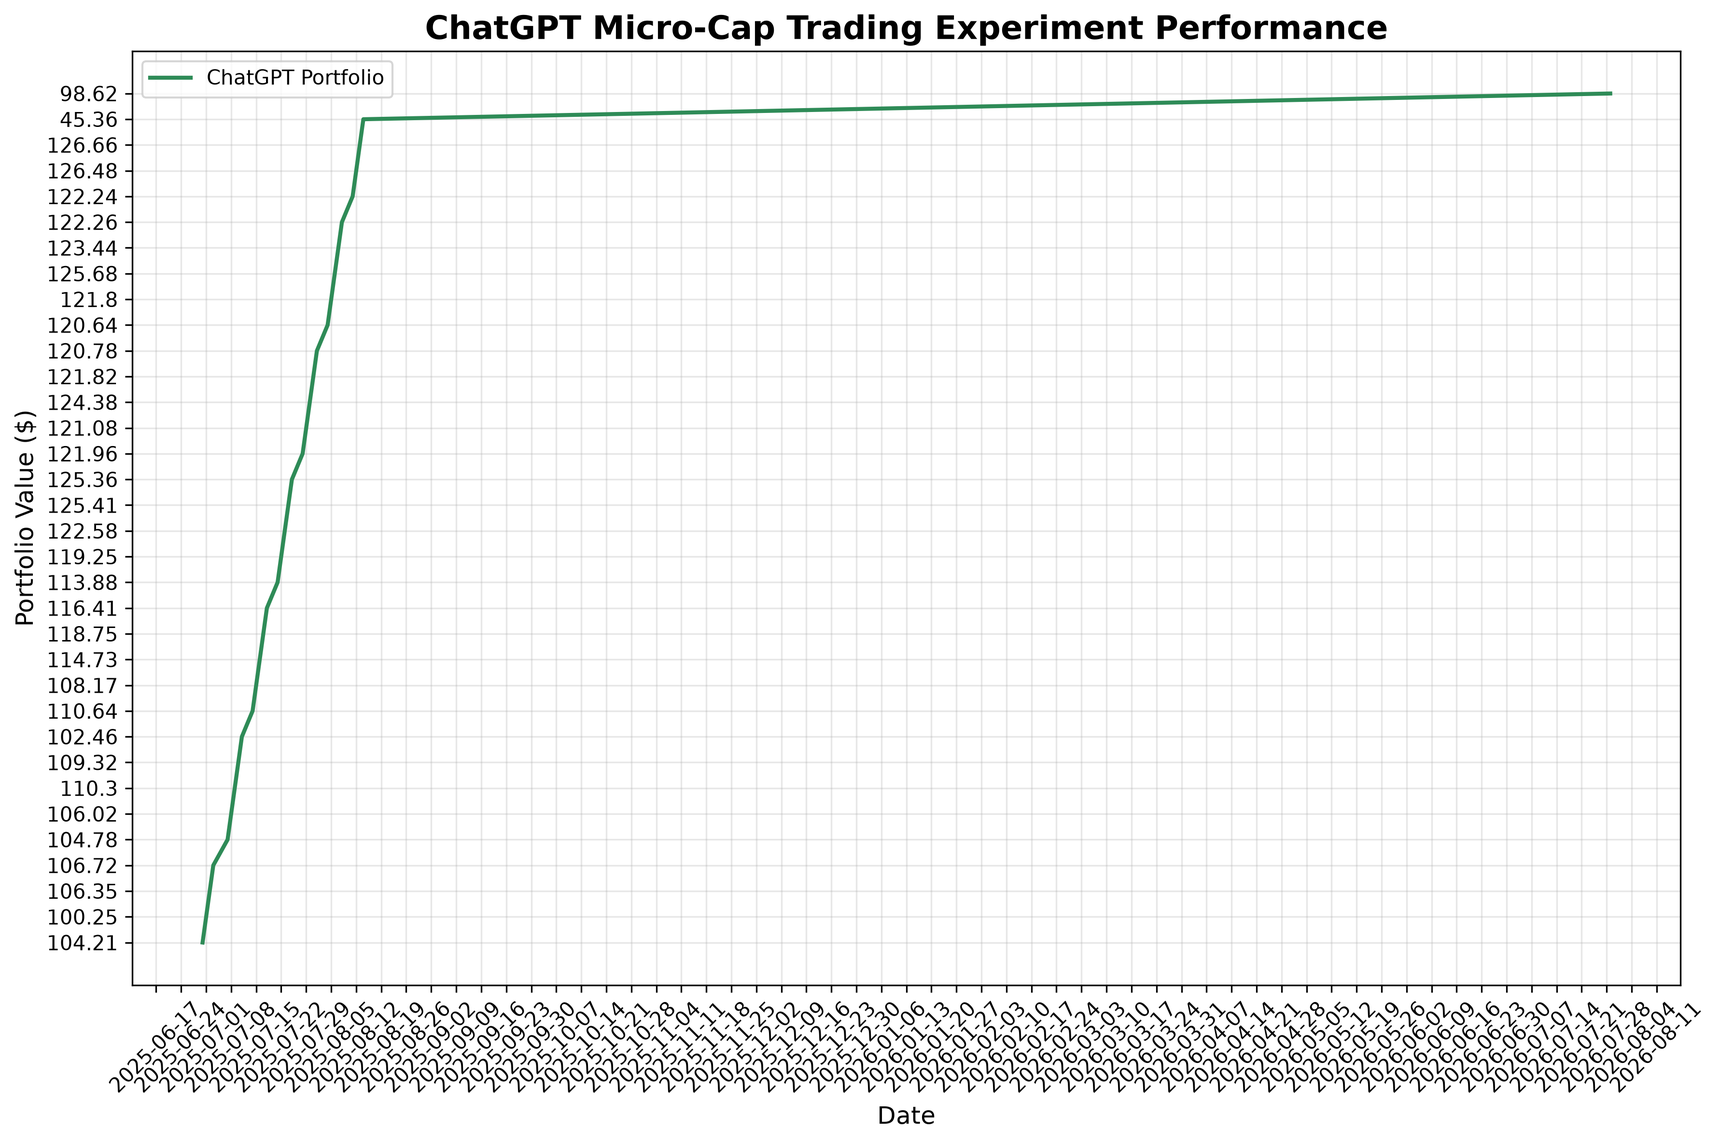
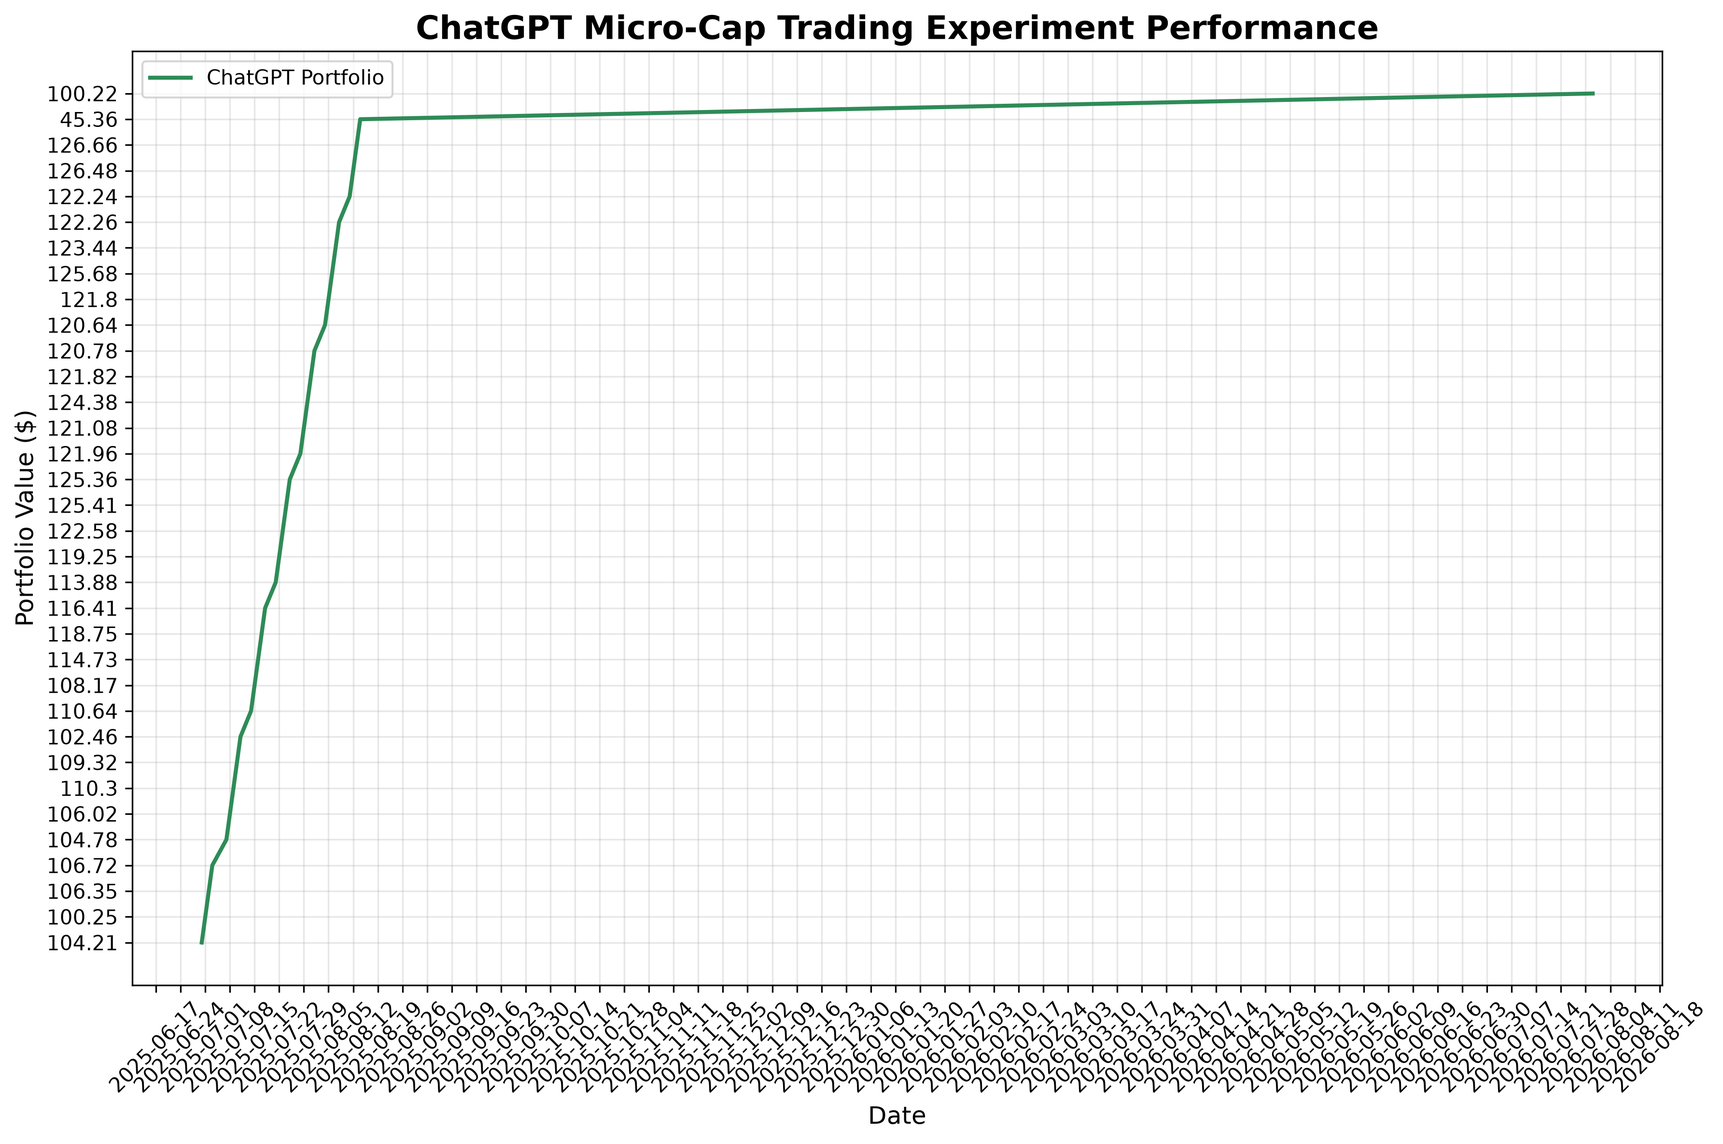
deploy: e15cad030d70fb3fbb51f9df6e22fa70c2f175c0

diff --git a/index.html b/index.html
@@ -105,7 +105,7 @@
                 <div class="stat-label">Total Trades</div>
             </div>
             <div class="stat-card">
-                <div class="stat-value" id="last-updated">2026-07-29</div>
+                <div class="stat-value" id="last-updated">2026-07-30</div>
                 <div class="stat-label">Last Updated</div>
             </div>
         </div>
@@ -160,8 +160,8 @@
     
     <script>
         // Portfolio data
-        const portfolioData = JSON.parse("[{&quot;Date&quot;: &quot;2025-08-11&quot;, &quot;Ticker&quot;: &quot;ABEO&quot;, &quot;Shares&quot;: 4.0, &quot;Buy Price&quot;: 5.77, &quot;Cost Basis&quot;: 23.08, &quot;Stop Loss&quot;: 4.9, &quot;Current Price&quot;: 6.28, &quot;Total Value&quot;: 25.12, &quot;PnL&quot;: 2.04, &quot;Action&quot;: &quot;HOLD&quot;, &quot;Cash Balance&quot;: NaN, &quot;Total Equity&quot;: NaN}, {&quot;Date&quot;: &quot;2025-08-11&quot;, &quot;Ticker&quot;: &quot;ACTU&quot;, &quot;Shares&quot;: 6.0, &quot;Buy Price&quot;: 5.75, &quot;Cost Basis&quot;: 34.5, &quot;Stop Loss&quot;: 4.89, &quot;Current Price&quot;: 8.01, &quot;Total Value&quot;: 48.06, &quot;PnL&quot;: 13.56, &quot;Action&quot;: &quot;HOLD&quot;, &quot;Cash Balance&quot;: NaN, &quot;Total Equity&quot;: NaN}, {&quot;Date&quot;: &quot;2025-08-11&quot;, &quot;Ticker&quot;: &quot;ESPR&quot;, &quot;Shares&quot;: 2.0, &quot;Buy Price&quot;: 1.91, &quot;Cost Basis&quot;: 3.82, &quot;Stop Loss&quot;: 1.6, &quot;Current Price&quot;: 1.85, &quot;Total Value&quot;: 3.7, &quot;PnL&quot;: -0.12, &quot;Action&quot;: &quot;HOLD&quot;, &quot;Cash Balance&quot;: NaN, &quot;Total Equity&quot;: NaN}, {&quot;Date&quot;: &quot;2025-08-11&quot;, &quot;Ticker&quot;: &quot;TOTAL&quot;, &quot;Shares&quot;: NaN, &quot;Buy Price&quot;: NaN, &quot;Cost Basis&quot;: NaN, &quot;Stop Loss&quot;: NaN, &quot;Current Price&quot;: NaN, &quot;Total Value&quot;: 76.88, &quot;PnL&quot;: 15.48, &quot;Action&quot;: NaN, &quot;Cash Balance&quot;: 45.36, &quot;Total Equity&quot;: &quot;122.24&quot;}, {&quot;Date&quot;: &quot;2025-08-12&quot;, &quot;Ticker&quot;: &quot;ABEO&quot;, &quot;Shares&quot;: 4.0, &quot;Buy Price&quot;: 5.77, &quot;Cost Basis&quot;: 23.08, &quot;Stop Loss&quot;: 4.9, &quot;Current Price&quot;: 6.38, &quot;Total Value&quot;: 25.52, &quot;PnL&quot;: 2.44, &quot;Action&quot;: &quot;HOLD&quot;, &quot;Cash Balance&quot;: NaN, &quot;Total Equity&quot;: NaN}, {&quot;Date&quot;: &quot;2025-08-12&quot;, &quot;Ticker&quot;: &quot;ACTU&quot;, &quot;Shares&quot;: 6.0, &quot;Buy Price&quot;: 5.75, &quot;Cost Basis&quot;: 34.5, &quot;Stop Loss&quot;: 4.89, &quot;Current Price&quot;: 8.67, &quot;Total Value&quot;: 52.02, &quot;PnL&quot;: 17.52, &quot;Action&quot;: &quot;HOLD&quot;, &quot;Cash Balance&quot;: NaN, &quot;Total Equity&quot;: NaN}, {&quot;Date&quot;: &quot;2025-08-12&quot;, &quot;Ticker&quot;: &quot;ESPR&quot;, &quot;Shares&quot;: 2.0, &quot;Buy Price&quot;: 1.91, &quot;Cost Basis&quot;: 3.82, &quot;Stop Loss&quot;: 1.6, &quot;Current Price&quot;: 1.79, &quot;Total Value&quot;: 3.58, &quot;PnL&quot;: -0.24, &quot;Action&quot;: &quot;HOLD&quot;, &quot;Cash Balance&quot;: NaN, &quot;Total Equity&quot;: NaN}, {&quot;Date&quot;: &quot;2025-08-12&quot;, &quot;Ticker&quot;: &quot;TOTAL&quot;, &quot;Shares&quot;: NaN, &quot;Buy Price&quot;: NaN, &quot;Cost Basis&quot;: NaN, &quot;Stop Loss&quot;: NaN, &quot;Current Price&quot;: NaN, &quot;Total Value&quot;: 81.12, &quot;PnL&quot;: 19.72, &quot;Action&quot;: NaN, &quot;Cash Balance&quot;: 45.36, &quot;Total Equity&quot;: &quot;126.48&quot;}, {&quot;Date&quot;: &quot;2025-08-13&quot;, &quot;Ticker&quot;: &quot;ABEO&quot;, &quot;Shares&quot;: 4.0, &quot;Buy Price&quot;: 5.77, &quot;Cost Basis&quot;: 23.08, &quot;Stop Loss&quot;: 4.9, &quot;Current Price&quot;: 6.56, &quot;Total Value&quot;: 26.24, &quot;PnL&quot;: 3.16, &quot;Action&quot;: &quot;HOLD&quot;, &quot;Cash Balance&quot;: NaN, &quot;Total Equity&quot;: NaN}, {&quot;Date&quot;: &quot;2025-08-13&quot;, &quot;Ticker&quot;: &quot;ACTU&quot;, &quot;Shares&quot;: 6.0, &quot;Buy Price&quot;: 5.75, &quot;Cost Basis&quot;: 34.5, &quot;Stop Loss&quot;: 4.89, &quot;Current Price&quot;: 8.53, &quot;Total Value&quot;: 51.18, &quot;PnL&quot;: 16.68, &quot;Action&quot;: &quot;HOLD&quot;, &quot;Cash Balance&quot;: NaN, &quot;Total Equity&quot;: NaN}, {&quot;Date&quot;: &quot;2025-08-13&quot;, &quot;Ticker&quot;: &quot;ESPR&quot;, &quot;Shares&quot;: 2.0, &quot;Buy Price&quot;: 1.91, &quot;Cost Basis&quot;: 3.82, &quot;Stop Loss&quot;: 1.6, &quot;Current Price&quot;: 1.94, &quot;Total Value&quot;: 3.88, &quot;PnL&quot;: 0.06, &quot;Action&quot;: &quot;HOLD&quot;, &quot;Cash Balance&quot;: NaN, &quot;Total Equity&quot;: NaN}, {&quot;Date&quot;: &quot;2025-08-13&quot;, &quot;Ticker&quot;: &quot;TOTAL&quot;, &quot;Shares&quot;: NaN, &quot;Buy Price&quot;: NaN, &quot;Cost Basis&quot;: NaN, &quot;Stop Loss&quot;: NaN, &quot;Current Price&quot;: NaN, &quot;Total Value&quot;: 81.3, &quot;PnL&quot;: 19.9, &quot;Action&quot;: NaN, &quot;Cash Balance&quot;: 45.36, &quot;Total Equity&quot;: &quot;126.66&quot;}, {&quot;Date&quot;: &quot;2025-08-14&quot;, &quot;Ticker&quot;: &quot;ABEO&quot;, &quot;Shares&quot;: 4.0, &quot;Buy Price&quot;: 5.77, &quot;Cost Basis&quot;: 23.08, &quot;Stop Loss&quot;: 4.9, &quot;Current Price&quot;: NaN, &quot;Total Value&quot;: NaN, &quot;PnL&quot;: NaN, &quot;Action&quot;: &quot;NO DATA&quot;, &quot;Cash Balance&quot;: NaN, &quot;Total Equity&quot;: NaN}, {&quot;Date&quot;: &quot;2025-08-14&quot;, &quot;Ticker&quot;: &quot;ACTU&quot;, &quot;Shares&quot;: 6.0, &quot;Buy Price&quot;: 5.75, &quot;Cost Basis&quot;: 34.5, &quot;Stop Loss&quot;: 4.89, &quot;Current Price&quot;: NaN, &quot;Total Value&quot;: NaN, &quot;PnL&quot;: NaN, &quot;Action&quot;: &quot;NO DATA&quot;, &quot;Cash Balance&quot;: NaN, &quot;Total Equity&quot;: NaN}, {&quot;Date&quot;: &quot;2025-08-14&quot;, &quot;Ticker&quot;: &quot;ESPR&quot;, &quot;Shares&quot;: 2.0, &quot;Buy Price&quot;: 1.91, &quot;Cost Basis&quot;: 3.82, &quot;Stop Loss&quot;: 1.6, &quot;Current Price&quot;: NaN, &quot;Total Value&quot;: NaN, &quot;PnL&quot;: NaN, &quot;Action&quot;: &quot;NO DATA&quot;, &quot;Cash Balance&quot;: NaN, &quot;Total Equity&quot;: NaN}, {&quot;Date&quot;: &quot;2025-08-14&quot;, &quot;Ticker&quot;: &quot;TOTAL&quot;, &quot;Shares&quot;: NaN, &quot;Buy Price&quot;: NaN, &quot;Cost Basis&quot;: NaN, &quot;Stop Loss&quot;: NaN, &quot;Current Price&quot;: NaN, &quot;Total Value&quot;: 0.0, &quot;PnL&quot;: 0.0, &quot;Action&quot;: NaN, &quot;Cash Balance&quot;: 45.36, &quot;Total Equity&quot;: &quot;45.36&quot;}, {&quot;Date&quot;: &quot;2026-07-29&quot;, &quot;Ticker&quot;: &quot;ABEO&quot;, &quot;Shares&quot;: 4.0, &quot;Buy Price&quot;: 5.77, &quot;Cost Basis&quot;: 23.08, &quot;Stop Loss&quot;: 4.9, &quot;Current Price&quot;: 5.98, &quot;Total Value&quot;: 23.92, &quot;PnL&quot;: 0.84, &quot;Action&quot;: &quot;HOLD&quot;, &quot;Cash Balance&quot;: NaN, &quot;Total Equity&quot;: NaN}, {&quot;Date&quot;: &quot;2026-07-29&quot;, &quot;Ticker&quot;: &quot;ACTU&quot;, &quot;Shares&quot;: 6.0, &quot;Buy Price&quot;: 5.75, &quot;Cost Basis&quot;: 34.5, &quot;Stop Loss&quot;: 4.89, &quot;Current Price&quot;: 4.89, &quot;Total Value&quot;: 29.34, &quot;PnL&quot;: -5.16, &quot;Action&quot;: &quot;SELL - Stop Loss Triggered&quot;, &quot;Cash Balance&quot;: NaN, &quot;Total Equity&quot;: NaN}, {&quot;Date&quot;: &quot;2026-07-29&quot;, &quot;Ticker&quot;: &quot;ESPR&quot;, &quot;Shares&quot;: 2.0, &quot;Buy Price&quot;: 1.91, &quot;Cost Basis&quot;: 3.82, &quot;Stop Loss&quot;: 1.6, &quot;Current Price&quot;: NaN, &quot;Total Value&quot;: NaN, &quot;PnL&quot;: NaN, &quot;Action&quot;: &quot;NO DATA&quot;, &quot;Cash Balance&quot;: NaN, &quot;Total Equity&quot;: NaN}, {&quot;Date&quot;: &quot;2026-07-29&quot;, &quot;Ticker&quot;: &quot;TOTAL&quot;, &quot;Shares&quot;: NaN, &quot;Buy Price&quot;: NaN, &quot;Cost Basis&quot;: NaN, &quot;Stop Loss&quot;: NaN, &quot;Current Price&quot;: NaN, &quot;Total Value&quot;: 23.92, &quot;PnL&quot;: 0.84, &quot;Action&quot;: NaN, &quot;Cash Balance&quot;: 74.7, &quot;Total Equity&quot;: &quot;98.62&quot;}]");
-        const tradeData = JSON.parse("[{&quot;Date&quot;: &quot;2025-07-08&quot;, &quot;Ticker&quot;: &quot;IINN&quot;, &quot;Shares Bought&quot;: 20.0, &quot;Buy Price&quot;: 1.5, &quot;Cost Basis&quot;: 30.0, &quot;PnL&quot;: 0.0, &quot;Reason&quot;: &quot;MANUAL BUY - New position&quot;, &quot;Shares Sold&quot;: NaN, &quot;Sell Price&quot;: NaN}, {&quot;Date&quot;: &quot;2025-07-21&quot;, &quot;Ticker&quot;: &quot;CADL&quot;, &quot;Shares Bought&quot;: NaN, &quot;Buy Price&quot;: NaN, &quot;Cost Basis&quot;: 25.2, &quot;PnL&quot;: 8.5, &quot;Reason&quot;: &quot;MANUAL SELL - GAIN CAPITAL FOR ACTU&quot;, &quot;Shares Sold&quot;: 5.0, &quot;Sell Price&quot;: 6.59}, {&quot;Date&quot;: &quot;2025-07-21&quot;, &quot;Ticker&quot;: &quot;ACTU&quot;, &quot;Shares Bought&quot;: 6.0, &quot;Buy Price&quot;: 5.75, &quot;Cost Basis&quot;: 34.5, &quot;PnL&quot;: 0.0, &quot;Reason&quot;: &quot;MANUAL BUY - New position&quot;, &quot;Shares Sold&quot;: NaN, &quot;Sell Price&quot;: NaN}, {&quot;Date&quot;: &quot;2025-07-28&quot;, &quot;Ticker&quot;: &quot;IINN&quot;, &quot;Shares Bought&quot;: NaN, &quot;Buy Price&quot;: NaN, &quot;Cost Basis&quot;: 9.0, &quot;PnL&quot;: -0.5400000000000009, &quot;Reason&quot;: &quot;MANUAL SELL - POSITION REDUCTION&quot;, &quot;Shares Sold&quot;: 6.0, &quot;Sell Price&quot;: 1.41}, {&quot;Date&quot;: &quot;2025-07-29&quot;, &quot;Ticker&quot;: &quot;AZTR&quot;, &quot;Shares Bought&quot;: NaN, &quot;Buy Price&quot;: NaN, &quot;Cost Basis&quot;: 13.75, &quot;PnL&quot;: -2.75, &quot;Reason&quot;: &quot;MANUAL SELL - DILUTION RISK&quot;, &quot;Shares Sold&quot;: 55.0, &quot;Sell Price&quot;: 0.2}, {&quot;Date&quot;: &quot;2025-08-01&quot;, &quot;Ticker&quot;: &quot;IINN&quot;, &quot;Shares Bought&quot;: 2.0, &quot;Buy Price&quot;: 1.74, &quot;Cost Basis&quot;: 3.48, &quot;PnL&quot;: 0.0, &quot;Reason&quot;: &quot;MANUAL BUY - New position&quot;, &quot;Shares Sold&quot;: NaN, &quot;Sell Price&quot;: NaN}, {&quot;Date&quot;: &quot;2025-08-01&quot;, &quot;Ticker&quot;: &quot;ABEO&quot;, &quot;Shares Bought&quot;: NaN, &quot;Buy Price&quot;: NaN, &quot;Cost Basis&quot;: 11.54, &quot;PnL&quot;: 1.200000000000001, &quot;Reason&quot;: &quot;MANUAL SELL - TRIM AFTER SUPPORT LOSS&quot;, &quot;Shares Sold&quot;: 2.0, &quot;Sell Price&quot;: 6.37}, {&quot;Date&quot;: &quot;2025-08-07&quot;, &quot;Ticker&quot;: &quot;ESPR&quot;, &quot;Shares Bought&quot;: 2.0, &quot;Buy Price&quot;: 1.91, &quot;Cost Basis&quot;: 3.82, &quot;PnL&quot;: 0.0, &quot;Reason&quot;: &quot;MANUAL BUY - New position&quot;, &quot;Shares Sold&quot;: NaN, &quot;Sell Price&quot;: NaN}, {&quot;Date&quot;: &quot;2025-08-08&quot;, &quot;Ticker&quot;: &quot;IINN&quot;, &quot;Shares Bought&quot;: NaN, &quot;Buy Price&quot;: NaN, &quot;Cost Basis&quot;: 1.5, &quot;PnL&quot;: -6.4, &quot;Reason&quot;: &quot;AUTOMATED SELL - STOPLOSS TRIGGERED&quot;, &quot;Shares Sold&quot;: 16.0, &quot;Sell Price&quot;: 1.1}, {&quot;Date&quot;: &quot;2026-07-29&quot;, &quot;Ticker&quot;: &quot;ACTU&quot;, &quot;Shares Bought&quot;: NaN, &quot;Buy Price&quot;: NaN, &quot;Cost Basis&quot;: 5.75, &quot;PnL&quot;: -5.16, &quot;Reason&quot;: &quot;AUTOMATED SELL - STOPLOSS TRIGGERED&quot;, &quot;Shares Sold&quot;: 6.0, &quot;Sell Price&quot;: 4.89}]");
+        const portfolioData = JSON.parse("[{&quot;Date&quot;: &quot;2025-08-11&quot;, &quot;Ticker&quot;: &quot;ABEO&quot;, &quot;Shares&quot;: 4.0, &quot;Buy Price&quot;: 5.77, &quot;Cost Basis&quot;: 23.08, &quot;Stop Loss&quot;: 4.9, &quot;Current Price&quot;: 6.28, &quot;Total Value&quot;: 25.12, &quot;PnL&quot;: 2.04, &quot;Action&quot;: &quot;HOLD&quot;, &quot;Cash Balance&quot;: NaN, &quot;Total Equity&quot;: NaN}, {&quot;Date&quot;: &quot;2025-08-11&quot;, &quot;Ticker&quot;: &quot;ACTU&quot;, &quot;Shares&quot;: 6.0, &quot;Buy Price&quot;: 5.75, &quot;Cost Basis&quot;: 34.5, &quot;Stop Loss&quot;: 4.89, &quot;Current Price&quot;: 8.01, &quot;Total Value&quot;: 48.06, &quot;PnL&quot;: 13.56, &quot;Action&quot;: &quot;HOLD&quot;, &quot;Cash Balance&quot;: NaN, &quot;Total Equity&quot;: NaN}, {&quot;Date&quot;: &quot;2025-08-11&quot;, &quot;Ticker&quot;: &quot;ESPR&quot;, &quot;Shares&quot;: 2.0, &quot;Buy Price&quot;: 1.91, &quot;Cost Basis&quot;: 3.82, &quot;Stop Loss&quot;: 1.6, &quot;Current Price&quot;: 1.85, &quot;Total Value&quot;: 3.7, &quot;PnL&quot;: -0.12, &quot;Action&quot;: &quot;HOLD&quot;, &quot;Cash Balance&quot;: NaN, &quot;Total Equity&quot;: NaN}, {&quot;Date&quot;: &quot;2025-08-11&quot;, &quot;Ticker&quot;: &quot;TOTAL&quot;, &quot;Shares&quot;: NaN, &quot;Buy Price&quot;: NaN, &quot;Cost Basis&quot;: NaN, &quot;Stop Loss&quot;: NaN, &quot;Current Price&quot;: NaN, &quot;Total Value&quot;: 76.88, &quot;PnL&quot;: 15.48, &quot;Action&quot;: NaN, &quot;Cash Balance&quot;: 45.36, &quot;Total Equity&quot;: &quot;122.24&quot;}, {&quot;Date&quot;: &quot;2025-08-12&quot;, &quot;Ticker&quot;: &quot;ABEO&quot;, &quot;Shares&quot;: 4.0, &quot;Buy Price&quot;: 5.77, &quot;Cost Basis&quot;: 23.08, &quot;Stop Loss&quot;: 4.9, &quot;Current Price&quot;: 6.38, &quot;Total Value&quot;: 25.52, &quot;PnL&quot;: 2.44, &quot;Action&quot;: &quot;HOLD&quot;, &quot;Cash Balance&quot;: NaN, &quot;Total Equity&quot;: NaN}, {&quot;Date&quot;: &quot;2025-08-12&quot;, &quot;Ticker&quot;: &quot;ACTU&quot;, &quot;Shares&quot;: 6.0, &quot;Buy Price&quot;: 5.75, &quot;Cost Basis&quot;: 34.5, &quot;Stop Loss&quot;: 4.89, &quot;Current Price&quot;: 8.67, &quot;Total Value&quot;: 52.02, &quot;PnL&quot;: 17.52, &quot;Action&quot;: &quot;HOLD&quot;, &quot;Cash Balance&quot;: NaN, &quot;Total Equity&quot;: NaN}, {&quot;Date&quot;: &quot;2025-08-12&quot;, &quot;Ticker&quot;: &quot;ESPR&quot;, &quot;Shares&quot;: 2.0, &quot;Buy Price&quot;: 1.91, &quot;Cost Basis&quot;: 3.82, &quot;Stop Loss&quot;: 1.6, &quot;Current Price&quot;: 1.79, &quot;Total Value&quot;: 3.58, &quot;PnL&quot;: -0.24, &quot;Action&quot;: &quot;HOLD&quot;, &quot;Cash Balance&quot;: NaN, &quot;Total Equity&quot;: NaN}, {&quot;Date&quot;: &quot;2025-08-12&quot;, &quot;Ticker&quot;: &quot;TOTAL&quot;, &quot;Shares&quot;: NaN, &quot;Buy Price&quot;: NaN, &quot;Cost Basis&quot;: NaN, &quot;Stop Loss&quot;: NaN, &quot;Current Price&quot;: NaN, &quot;Total Value&quot;: 81.12, &quot;PnL&quot;: 19.72, &quot;Action&quot;: NaN, &quot;Cash Balance&quot;: 45.36, &quot;Total Equity&quot;: &quot;126.48&quot;}, {&quot;Date&quot;: &quot;2025-08-13&quot;, &quot;Ticker&quot;: &quot;ABEO&quot;, &quot;Shares&quot;: 4.0, &quot;Buy Price&quot;: 5.77, &quot;Cost Basis&quot;: 23.08, &quot;Stop Loss&quot;: 4.9, &quot;Current Price&quot;: 6.56, &quot;Total Value&quot;: 26.24, &quot;PnL&quot;: 3.16, &quot;Action&quot;: &quot;HOLD&quot;, &quot;Cash Balance&quot;: NaN, &quot;Total Equity&quot;: NaN}, {&quot;Date&quot;: &quot;2025-08-13&quot;, &quot;Ticker&quot;: &quot;ACTU&quot;, &quot;Shares&quot;: 6.0, &quot;Buy Price&quot;: 5.75, &quot;Cost Basis&quot;: 34.5, &quot;Stop Loss&quot;: 4.89, &quot;Current Price&quot;: 8.53, &quot;Total Value&quot;: 51.18, &quot;PnL&quot;: 16.68, &quot;Action&quot;: &quot;HOLD&quot;, &quot;Cash Balance&quot;: NaN, &quot;Total Equity&quot;: NaN}, {&quot;Date&quot;: &quot;2025-08-13&quot;, &quot;Ticker&quot;: &quot;ESPR&quot;, &quot;Shares&quot;: 2.0, &quot;Buy Price&quot;: 1.91, &quot;Cost Basis&quot;: 3.82, &quot;Stop Loss&quot;: 1.6, &quot;Current Price&quot;: 1.94, &quot;Total Value&quot;: 3.88, &quot;PnL&quot;: 0.06, &quot;Action&quot;: &quot;HOLD&quot;, &quot;Cash Balance&quot;: NaN, &quot;Total Equity&quot;: NaN}, {&quot;Date&quot;: &quot;2025-08-13&quot;, &quot;Ticker&quot;: &quot;TOTAL&quot;, &quot;Shares&quot;: NaN, &quot;Buy Price&quot;: NaN, &quot;Cost Basis&quot;: NaN, &quot;Stop Loss&quot;: NaN, &quot;Current Price&quot;: NaN, &quot;Total Value&quot;: 81.3, &quot;PnL&quot;: 19.9, &quot;Action&quot;: NaN, &quot;Cash Balance&quot;: 45.36, &quot;Total Equity&quot;: &quot;126.66&quot;}, {&quot;Date&quot;: &quot;2025-08-14&quot;, &quot;Ticker&quot;: &quot;ABEO&quot;, &quot;Shares&quot;: 4.0, &quot;Buy Price&quot;: 5.77, &quot;Cost Basis&quot;: 23.08, &quot;Stop Loss&quot;: 4.9, &quot;Current Price&quot;: NaN, &quot;Total Value&quot;: NaN, &quot;PnL&quot;: NaN, &quot;Action&quot;: &quot;NO DATA&quot;, &quot;Cash Balance&quot;: NaN, &quot;Total Equity&quot;: NaN}, {&quot;Date&quot;: &quot;2025-08-14&quot;, &quot;Ticker&quot;: &quot;ACTU&quot;, &quot;Shares&quot;: 6.0, &quot;Buy Price&quot;: 5.75, &quot;Cost Basis&quot;: 34.5, &quot;Stop Loss&quot;: 4.89, &quot;Current Price&quot;: NaN, &quot;Total Value&quot;: NaN, &quot;PnL&quot;: NaN, &quot;Action&quot;: &quot;NO DATA&quot;, &quot;Cash Balance&quot;: NaN, &quot;Total Equity&quot;: NaN}, {&quot;Date&quot;: &quot;2025-08-14&quot;, &quot;Ticker&quot;: &quot;ESPR&quot;, &quot;Shares&quot;: 2.0, &quot;Buy Price&quot;: 1.91, &quot;Cost Basis&quot;: 3.82, &quot;Stop Loss&quot;: 1.6, &quot;Current Price&quot;: NaN, &quot;Total Value&quot;: NaN, &quot;PnL&quot;: NaN, &quot;Action&quot;: &quot;NO DATA&quot;, &quot;Cash Balance&quot;: NaN, &quot;Total Equity&quot;: NaN}, {&quot;Date&quot;: &quot;2025-08-14&quot;, &quot;Ticker&quot;: &quot;TOTAL&quot;, &quot;Shares&quot;: NaN, &quot;Buy Price&quot;: NaN, &quot;Cost Basis&quot;: NaN, &quot;Stop Loss&quot;: NaN, &quot;Current Price&quot;: NaN, &quot;Total Value&quot;: 0.0, &quot;PnL&quot;: 0.0, &quot;Action&quot;: NaN, &quot;Cash Balance&quot;: 45.36, &quot;Total Equity&quot;: &quot;45.36&quot;}, {&quot;Date&quot;: &quot;2026-07-30&quot;, &quot;Ticker&quot;: &quot;ABEO&quot;, &quot;Shares&quot;: 4.0, &quot;Buy Price&quot;: 5.77, &quot;Cost Basis&quot;: 23.08, &quot;Stop Loss&quot;: 4.9, &quot;Current Price&quot;: 6.38, &quot;Total Value&quot;: 25.52, &quot;PnL&quot;: 2.44, &quot;Action&quot;: &quot;HOLD&quot;, &quot;Cash Balance&quot;: NaN, &quot;Total Equity&quot;: NaN}, {&quot;Date&quot;: &quot;2026-07-30&quot;, &quot;Ticker&quot;: &quot;ACTU&quot;, &quot;Shares&quot;: 6.0, &quot;Buy Price&quot;: 5.75, &quot;Cost Basis&quot;: 34.5, &quot;Stop Loss&quot;: 4.89, &quot;Current Price&quot;: 4.89, &quot;Total Value&quot;: 29.34, &quot;PnL&quot;: -5.16, &quot;Action&quot;: &quot;SELL - Stop Loss Triggered&quot;, &quot;Cash Balance&quot;: NaN, &quot;Total Equity&quot;: NaN}, {&quot;Date&quot;: &quot;2026-07-30&quot;, &quot;Ticker&quot;: &quot;ESPR&quot;, &quot;Shares&quot;: 2.0, &quot;Buy Price&quot;: 1.91, &quot;Cost Basis&quot;: 3.82, &quot;Stop Loss&quot;: 1.6, &quot;Current Price&quot;: NaN, &quot;Total Value&quot;: NaN, &quot;PnL&quot;: NaN, &quot;Action&quot;: &quot;NO DATA&quot;, &quot;Cash Balance&quot;: NaN, &quot;Total Equity&quot;: NaN}, {&quot;Date&quot;: &quot;2026-07-30&quot;, &quot;Ticker&quot;: &quot;TOTAL&quot;, &quot;Shares&quot;: NaN, &quot;Buy Price&quot;: NaN, &quot;Cost Basis&quot;: NaN, &quot;Stop Loss&quot;: NaN, &quot;Current Price&quot;: NaN, &quot;Total Value&quot;: 25.52, &quot;PnL&quot;: 2.44, &quot;Action&quot;: NaN, &quot;Cash Balance&quot;: 74.7, &quot;Total Equity&quot;: &quot;100.22&quot;}]");
+        const tradeData = JSON.parse("[{&quot;Date&quot;: &quot;2025-07-08&quot;, &quot;Ticker&quot;: &quot;IINN&quot;, &quot;Shares Bought&quot;: 20.0, &quot;Buy Price&quot;: 1.5, &quot;Cost Basis&quot;: 30.0, &quot;PnL&quot;: 0.0, &quot;Reason&quot;: &quot;MANUAL BUY - New position&quot;, &quot;Shares Sold&quot;: NaN, &quot;Sell Price&quot;: NaN}, {&quot;Date&quot;: &quot;2025-07-21&quot;, &quot;Ticker&quot;: &quot;CADL&quot;, &quot;Shares Bought&quot;: NaN, &quot;Buy Price&quot;: NaN, &quot;Cost Basis&quot;: 25.2, &quot;PnL&quot;: 8.5, &quot;Reason&quot;: &quot;MANUAL SELL - GAIN CAPITAL FOR ACTU&quot;, &quot;Shares Sold&quot;: 5.0, &quot;Sell Price&quot;: 6.59}, {&quot;Date&quot;: &quot;2025-07-21&quot;, &quot;Ticker&quot;: &quot;ACTU&quot;, &quot;Shares Bought&quot;: 6.0, &quot;Buy Price&quot;: 5.75, &quot;Cost Basis&quot;: 34.5, &quot;PnL&quot;: 0.0, &quot;Reason&quot;: &quot;MANUAL BUY - New position&quot;, &quot;Shares Sold&quot;: NaN, &quot;Sell Price&quot;: NaN}, {&quot;Date&quot;: &quot;2025-07-28&quot;, &quot;Ticker&quot;: &quot;IINN&quot;, &quot;Shares Bought&quot;: NaN, &quot;Buy Price&quot;: NaN, &quot;Cost Basis&quot;: 9.0, &quot;PnL&quot;: -0.5400000000000009, &quot;Reason&quot;: &quot;MANUAL SELL - POSITION REDUCTION&quot;, &quot;Shares Sold&quot;: 6.0, &quot;Sell Price&quot;: 1.41}, {&quot;Date&quot;: &quot;2025-07-29&quot;, &quot;Ticker&quot;: &quot;AZTR&quot;, &quot;Shares Bought&quot;: NaN, &quot;Buy Price&quot;: NaN, &quot;Cost Basis&quot;: 13.75, &quot;PnL&quot;: -2.75, &quot;Reason&quot;: &quot;MANUAL SELL - DILUTION RISK&quot;, &quot;Shares Sold&quot;: 55.0, &quot;Sell Price&quot;: 0.2}, {&quot;Date&quot;: &quot;2025-08-01&quot;, &quot;Ticker&quot;: &quot;IINN&quot;, &quot;Shares Bought&quot;: 2.0, &quot;Buy Price&quot;: 1.74, &quot;Cost Basis&quot;: 3.48, &quot;PnL&quot;: 0.0, &quot;Reason&quot;: &quot;MANUAL BUY - New position&quot;, &quot;Shares Sold&quot;: NaN, &quot;Sell Price&quot;: NaN}, {&quot;Date&quot;: &quot;2025-08-01&quot;, &quot;Ticker&quot;: &quot;ABEO&quot;, &quot;Shares Bought&quot;: NaN, &quot;Buy Price&quot;: NaN, &quot;Cost Basis&quot;: 11.54, &quot;PnL&quot;: 1.200000000000001, &quot;Reason&quot;: &quot;MANUAL SELL - TRIM AFTER SUPPORT LOSS&quot;, &quot;Shares Sold&quot;: 2.0, &quot;Sell Price&quot;: 6.37}, {&quot;Date&quot;: &quot;2025-08-07&quot;, &quot;Ticker&quot;: &quot;ESPR&quot;, &quot;Shares Bought&quot;: 2.0, &quot;Buy Price&quot;: 1.91, &quot;Cost Basis&quot;: 3.82, &quot;PnL&quot;: 0.0, &quot;Reason&quot;: &quot;MANUAL BUY - New position&quot;, &quot;Shares Sold&quot;: NaN, &quot;Sell Price&quot;: NaN}, {&quot;Date&quot;: &quot;2025-08-08&quot;, &quot;Ticker&quot;: &quot;IINN&quot;, &quot;Shares Bought&quot;: NaN, &quot;Buy Price&quot;: NaN, &quot;Cost Basis&quot;: 1.5, &quot;PnL&quot;: -6.4, &quot;Reason&quot;: &quot;AUTOMATED SELL - STOPLOSS TRIGGERED&quot;, &quot;Shares Sold&quot;: 16.0, &quot;Sell Price&quot;: 1.1}, {&quot;Date&quot;: &quot;2026-07-30&quot;, &quot;Ticker&quot;: &quot;ACTU&quot;, &quot;Shares Bought&quot;: NaN, &quot;Buy Price&quot;: NaN, &quot;Cost Basis&quot;: 5.75, &quot;PnL&quot;: -5.16, &quot;Reason&quot;: &quot;AUTOMATED SELL - STOPLOSS TRIGGERED&quot;, &quot;Shares Sold&quot;: 6.0, &quot;Sell Price&quot;: 4.89}]");
         
         // Update total equity
         if (portfolioData.length > 0) {
